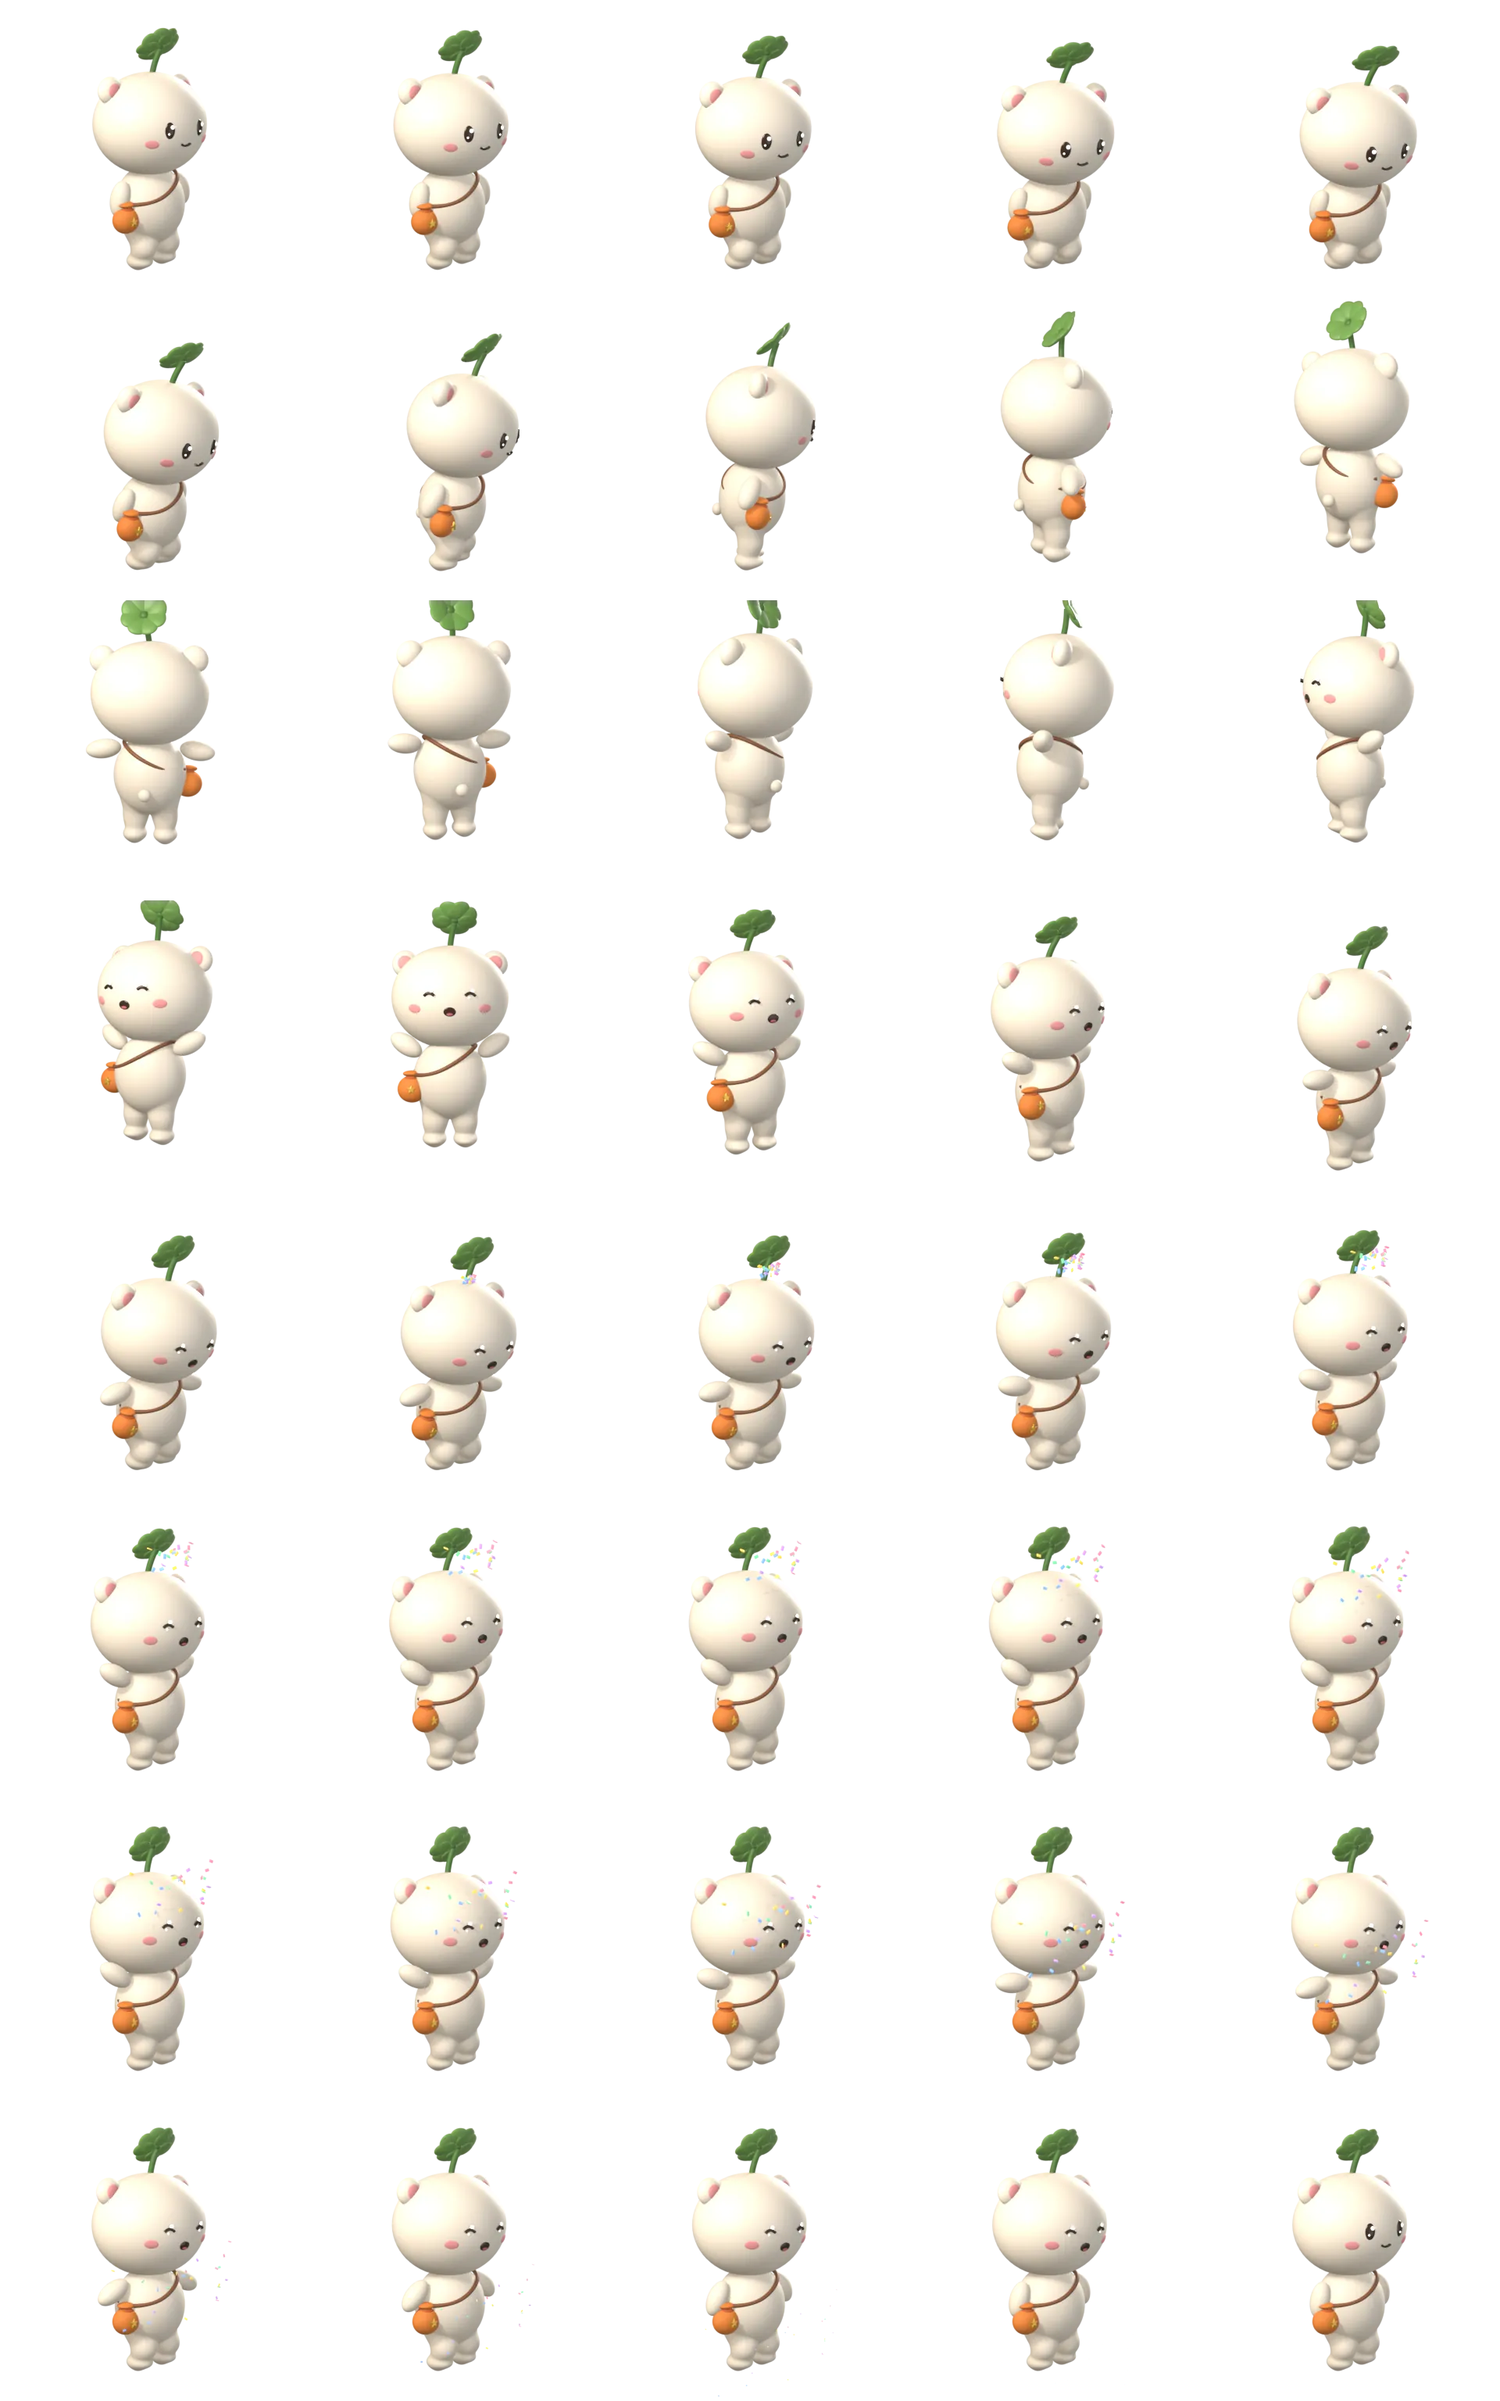
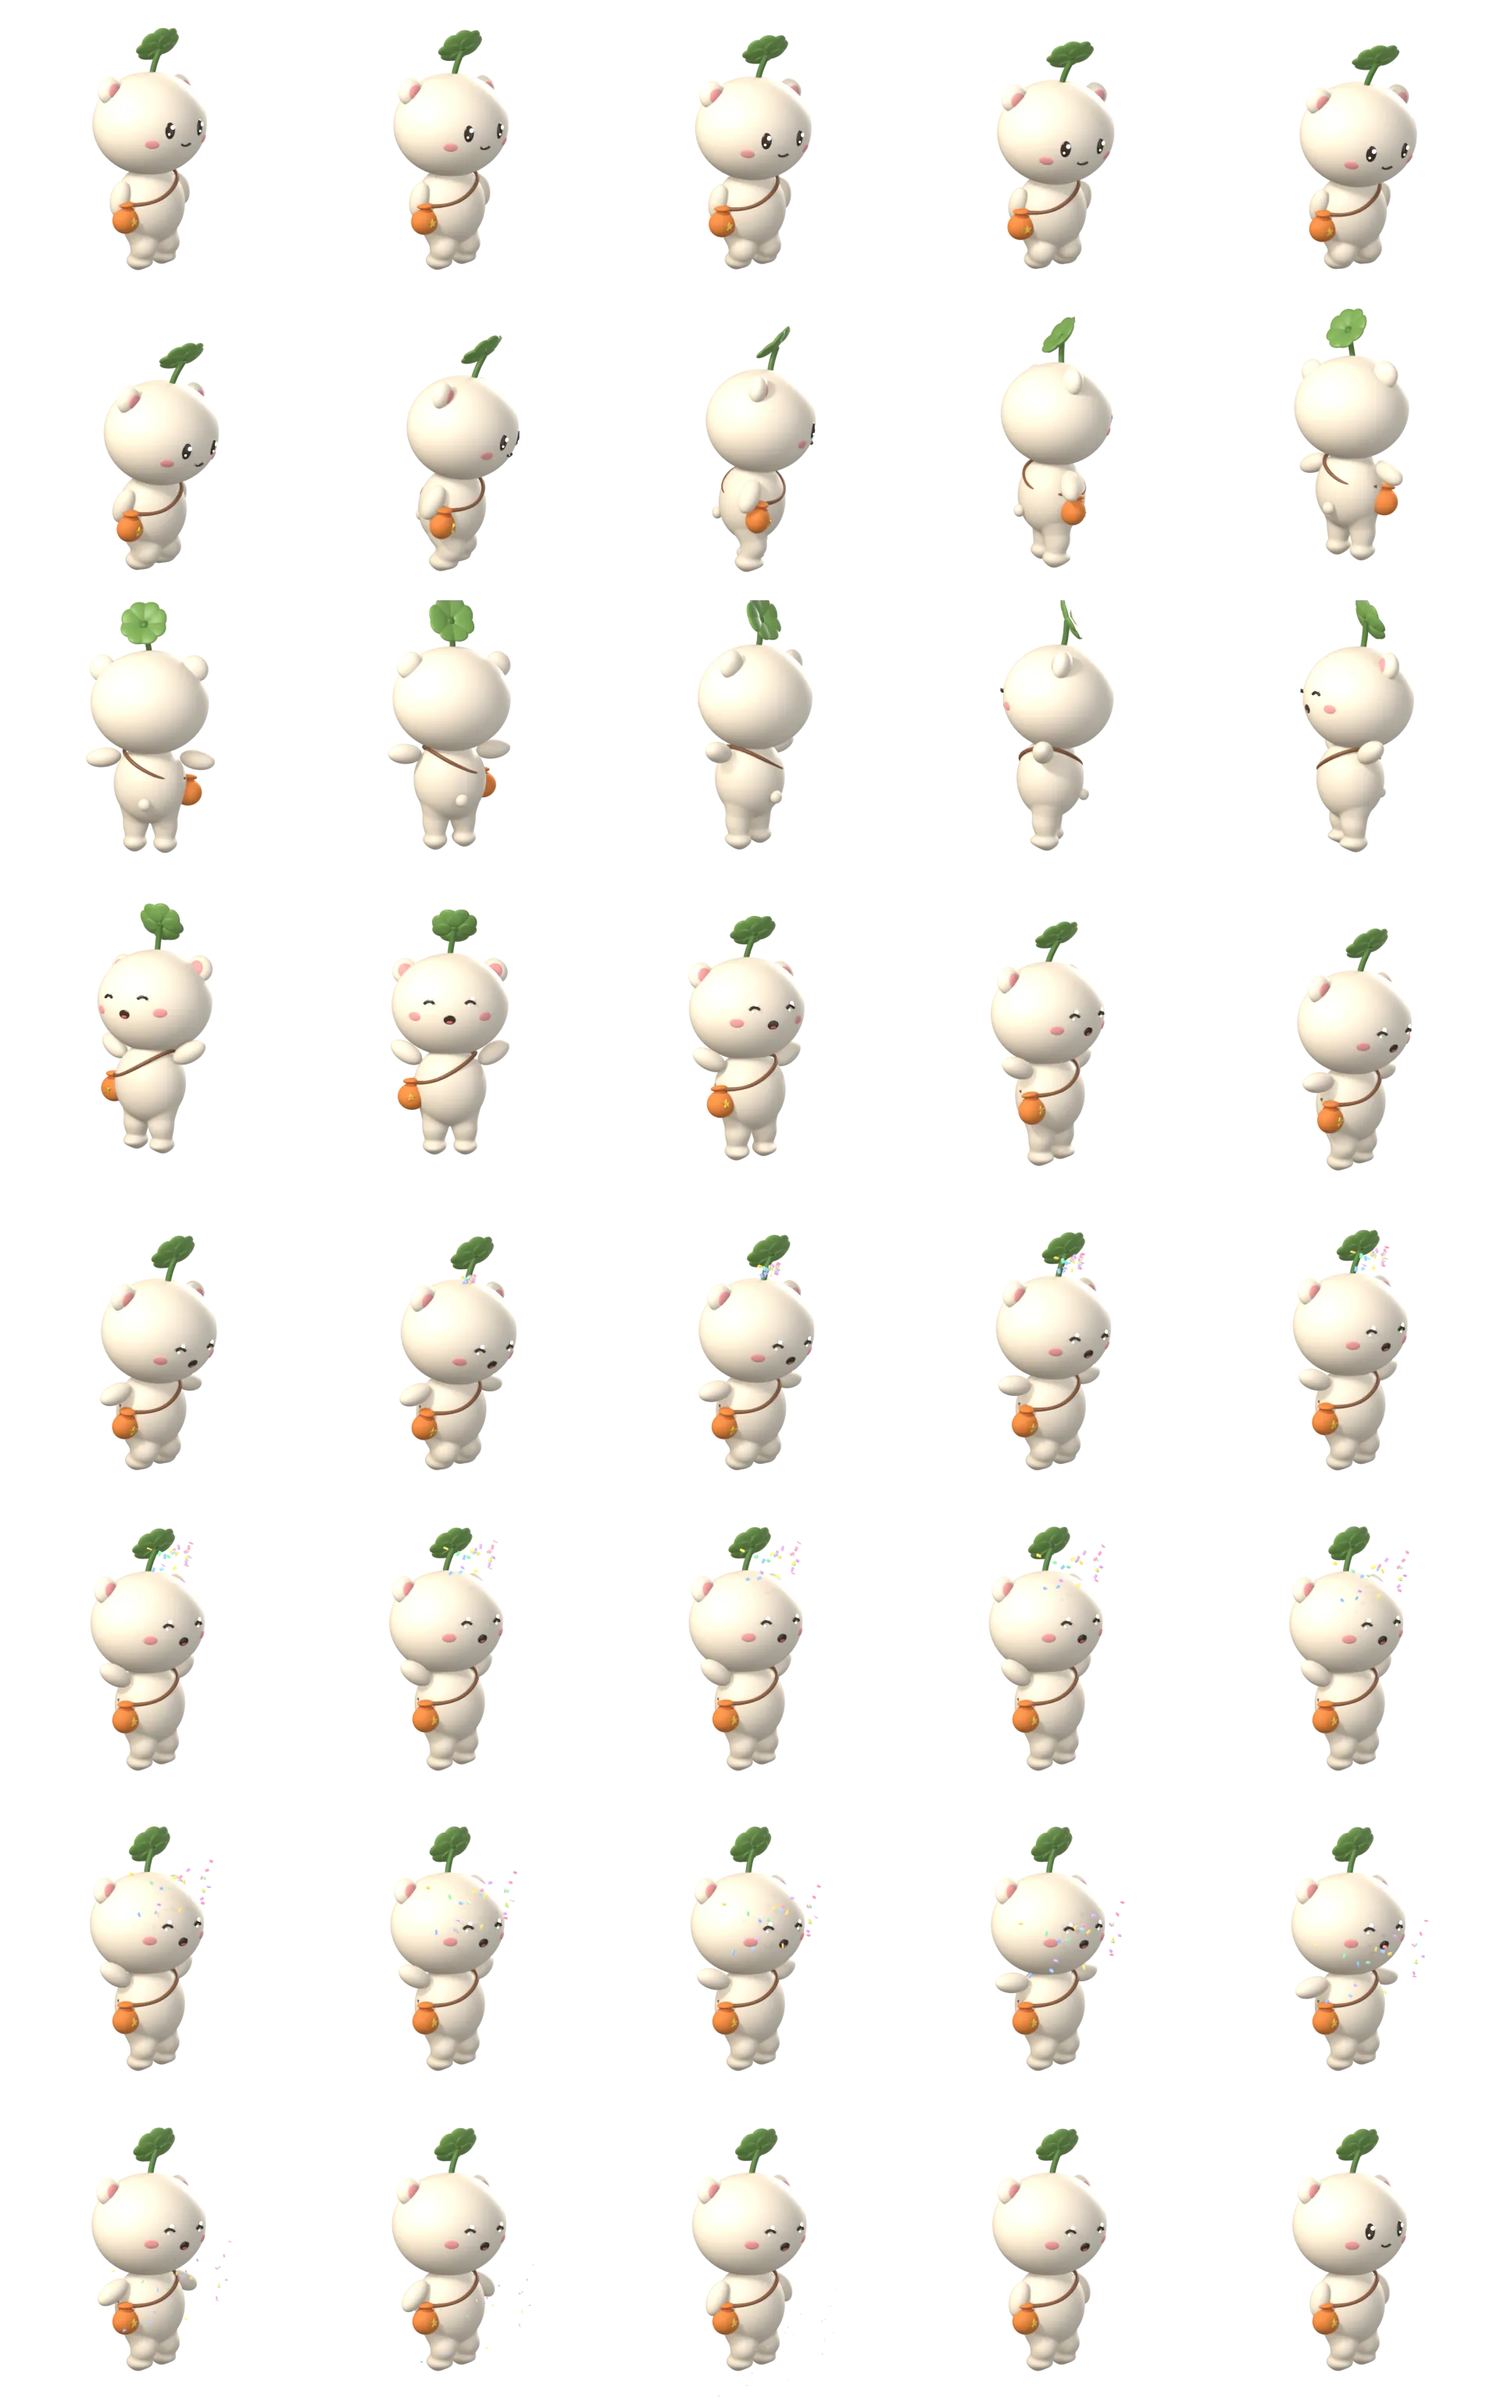
복이 wave를 카메라 쪽 왼손으로, celebrate 점프 높이를 낮춰 새싹이 화면 위로 잘리지 않게

diff --git a/src/config/mascot-assets.ts b/src/config/mascot-assets.ts
@@ -64,7 +64,7 @@ export const MASCOT_SHEETS: Record<MascotState, MascotSheet> = {
     "fps": 20,
     "loop": false,
     "frameSize": 384,
-    "bytes": 179896
+    "bytes": 177950
   },
   "nod": {
     "src": "/mascot/nod.webp",
@@ -104,7 +104,7 @@ export const MASCOT_SHEETS: Record<MascotState, MascotSheet> = {
     "fps": 20,
     "loop": false,
     "frameSize": 384,
-    "bytes": 256210
+    "bytes": 257180
   },
   "yawn": {
     "src": "/mascot/yawn.webp",

diff --git a/scripts/mascot/build_mascot.py b/scripts/mascot/build_mascot.py
@@ -556,12 +556,12 @@ def place_confetti(rig, progress, t_anim):
 CLIPS = {
     "wave": [
         (0.0, {}, "neutral"),
-        (0.18, {"ro": 125, "rf": 15, "headz": -6, "heady": 4, "hry": 2}, "happy"),
-        (0.3, {"ro": 145, "rf": 15, "headz": -6, "heady": 6, "hry": 3, "sprouty": -6}, "happy"),
-        (0.42, {"ro": 118, "rf": 15, "headz": -6, "heady": 3, "hry": 2, "sprouty": 5}, "happy"),
-        (0.54, {"ro": 145, "rf": 15, "headz": -6, "heady": 6, "hry": 3, "sprouty": -6}, "happy"),
-        (0.66, {"ro": 118, "rf": 15, "headz": -6, "heady": 3, "hry": 2, "sprouty": 5}, "happy"),
-        (0.8, {"ro": 60, "rf": 8, "headz": -3, "heady": 2}, "neutral"),
+        (0.18, {"lo": 125, "lf": 15, "headz": 6, "heady": -4, "hry": 2}, "happy"),
+        (0.3, {"lo": 145, "lf": 15, "headz": 6, "heady": -6, "hry": 3, "sprouty": -6}, "happy"),
+        (0.42, {"lo": 118, "lf": 15, "headz": 6, "heady": -3, "hry": 2, "sprouty": 5}, "happy"),
+        (0.54, {"lo": 145, "lf": 15, "headz": 6, "heady": -6, "hry": 3, "sprouty": -6}, "happy"),
+        (0.66, {"lo": 118, "lf": 15, "headz": 6, "heady": -3, "hry": 2, "sprouty": 5}, "happy"),
+        (0.8, {"lo": 60, "lf": 8, "headz": 3, "heady": -2}, "neutral"),
         (1.0, {}, "neutral"),
     ],
     "nod": [
@@ -594,8 +594,8 @@ CLIPS = {
     "celebrate": [
         (0.0, {}, "neutral"),
         (0.12, {"hz": -0.08, "hrx": 6, "lo": -8, "ro": -8, "lf": -15, "rf": -15, "headx": 6}, "neutral"),  # 웅크리기
-        (0.3, {"hz": 0.42, "spin": 180, "lo": 90, "ro": 90, "lf": -10, "rf": -10, "headx": -8, "sproutx": -20, "bagx": 15}, "happy"),
-        (0.45, {"hz": 0.2, "spin": 360, "lo": 105, "ro": 105, "lf": -10, "rf": -10, "headx": -6, "sproutx": 15, "bagx": -12}, "happy"),
+        (0.3, {"hz": 0.3, "spin": 180, "lo": 90, "ro": 90, "lf": -10, "rf": -10, "headx": -8, "sproutx": -20, "bagx": 15}, "happy"),
+        (0.45, {"hz": 0.14, "spin": 360, "lo": 105, "ro": 105, "lf": -10, "rf": -10, "headx": -6, "sproutx": 15, "bagx": -12}, "happy"),
         (0.52, {"hz": -0.06, "spin": 360, "hrx": 5, "lo": 60, "ro": 60, "headx": 6, "sproutx": -12, "bagx": 10}, "happy"),  # 착지
         (0.66, {"hz": 0.02, "spin": 360, "lo": 113, "ro": 113, "lf": -10, "rf": -10, "headx": -6, "sproutx": 8, "confetti": 0.0}, "happy"),
         (0.8, {"hz": 0.0, "spin": 360, "lo": 105, "ro": 105, "lf": -10, "rf": -10, "headx": -4, "sproutx": -4}, "happy"),
